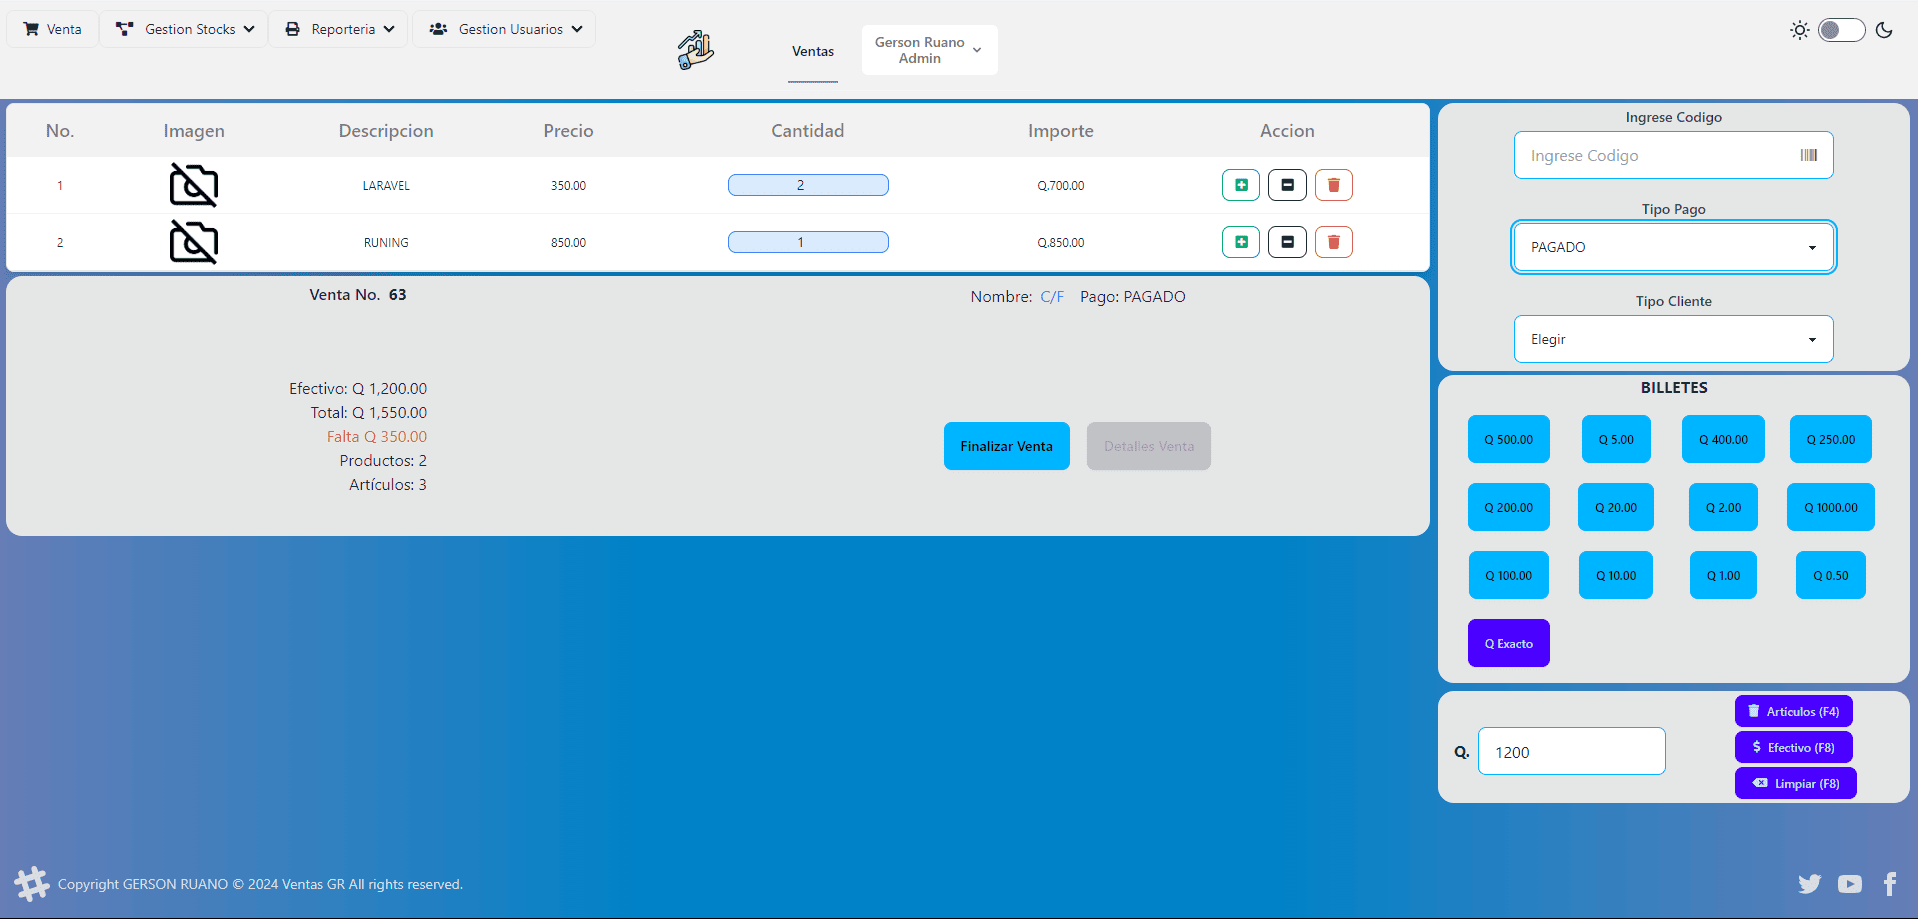
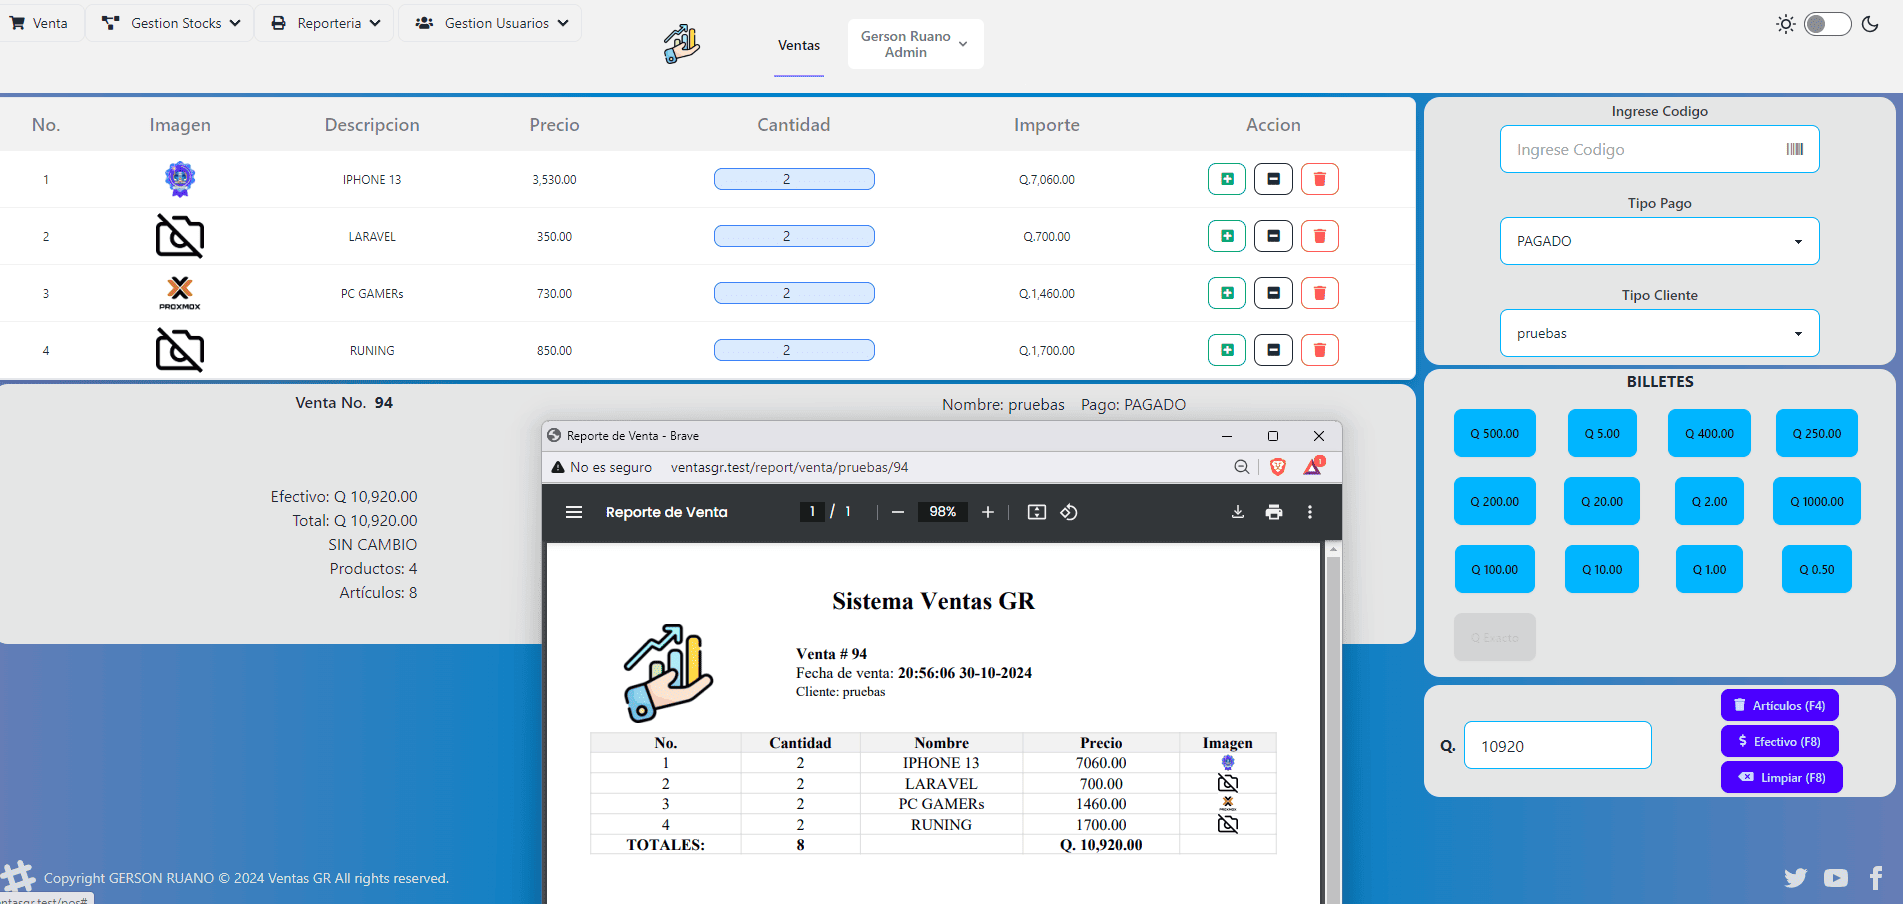
fix problema de impresion al iniciar por inicio de variable, fix problema de reporte pdf en filtro de todos los tipos de pago, actualizacion de imagenes y archivo Readme.md

diff --git a/app/Livewire/Reports.php b/app/Livewire/Reports.php
@@ -39,6 +39,7 @@ class Reports extends Component
         $this->sumDetails = 0;
         $this->countDetails = 0;
         $this->reportType = 0;
+        $this->selectTipoEstado = 0;
         $this->userId = 0;
         $this->saleId = 0;
         $this->valoresReporte = $this->tipoReporte();
@@ -104,7 +105,7 @@ class Reports extends Component
             $query->where('user_id', $this->userId);
         }
 
-        if ($this->selectTipoEstado) {
+        if ($this->selectTipoEstado != 0) { // Si no es igual a 0, aplica el filtro
             $query->where('sales.status', $this->selectTipoEstado);
         }
 

diff --git a/app/Http/Controllers/ExportController.php b/app/Http/Controllers/ExportController.php
@@ -68,7 +68,11 @@ class ExportController extends Controller
             $query->where('user_id', $userId);
         }
 
-        if ($selectTipoEstado !== null) {
+        /*if ($selectTipoEstado !== null) {
+            $query->where('sales.status', $selectTipoEstado);
+        }*/
+
+        if ($selectTipoEstado != 0) { // Si no es igual a 0, aplica el filtro
             $query->where('sales.status', $selectTipoEstado);
         }
 

diff --git a/resources/views/pdf/reportebox.blade.php b/resources/views/pdf/reportebox.blade.php
@@ -4,7 +4,7 @@
 <head>
     <meta charset="UTF-8">
     <meta name="viewport" content="width=device-width, initial-scale=1.0">
-    <title>Cierre de Venta</title>
+    <title>Cierre de Caja</title>
     <link rel="stylesheet" href="{{ asset('css/custom_pdf.css') }}">
     <link rel="stylesheet" href="{{ asset('css/custom_page.css') }}">
     <style>

diff --git a/app/Livewire/Cashout.php b/app/Livewire/Cashout.php
@@ -95,7 +95,7 @@ class Cashout extends Component
     public function obtenerNombreVendedor($seller)
     {
         $vendedor = User::find($seller);
-        return $vendedor ? $vendedor->name : 'C/F';
+        return $vendedor ? $vendedor->name : 'Consumidor Final';
     }
 
     public function updatedToDate()

diff --git a/README.md b/README.md
@@ -1,17 +1,19 @@
 
 # VENTASGR 
 
-Sistema de gestion de productos, ventas, usuarios, reportes.
+Sistema de ventas, gestion de productos, usuarios, reportes.
 
 <!--img src="https://user-images.githubusercontent.com/104822099/208479821-d38db6ea-2844-4b13-8af0-58ace8636889.png" width="500" heigh="288px" alt="Mi portfolio personal"-->
 ## Modulo de Ventas
 ![ventas](public/img/ventass.png)
 ## Modulo de Reportes
 ![ventas](public/img/reportes.png)
+## Modulo de Cierre de Caja
+![ventas](public/img/cierre.png)
 
 ## Descripción
 
-Aplicación que permite gestionar productos y ventas de los mismos, administracion de roles y permisos de usuarios para ingreso al sistema asi como compras de productos existentes, manejo de stock, generacion de dashboard.
+Aplicación que permite gestionar productos y ventas de los mismos, administracion de roles y permisos de usuarios para ingreso al sistema asi como compras de productos existentes, visualizaciòn de dashboard.
 
 ### Instalación
 
@@ -41,7 +43,7 @@ $ npm run build
 **Tailwind** para el diseño de los estilos del proyecto
 **Daisy Ui** para utilizar componentes prediseñados de tailwind
 **livewire** para crear componentes personalizados: para la reactividad de la pagina
-**Breeze** para la atentificación de los usuarios
+**Breeze** para la autenticación de los usuarios.
 **Fontawesome** para iconos del sistema.
 **SweetAlert2** para notificaciones.
 
@@ -60,60 +62,6 @@ $ npm run build
 <a href="https://packagist.org/packages/laravel/framework"><img src="https://img.shields.io/packagist/v/laravel/framework" alt="Latest Stable Version"></a>
 <a href="https://packagist.org/packages/laravel/framework"><img src="https://img.shields.io/packagist/l/laravel/framework" alt="License"></a>
 </p>
-
-## About Laravel
-
-Laravel is a web application framework with expressive, elegant syntax. We believe development must be an enjoyable and creative experience to be truly fulfilling. Laravel takes the pain out of development by easing common tasks used in many web projects, such as:
-
-- [Simple, fast routing engine](https://laravel.com/docs/routing).
-- [Powerful dependency injection container](https://laravel.com/docs/container).
-- Multiple back-ends for [session](https://laravel.com/docs/session) and [cache](https://laravel.com/docs/cache) storage.
-- Expressive, intuitive [database ORM](https://laravel.com/docs/eloquent).
-- Database agnostic [schema migrations](https://laravel.com/docs/migrations).
-- [Robust background job processing](https://laravel.com/docs/queues).
-- [Real-time event broadcasting](https://laravel.com/docs/broadcasting).
-
-Laravel is accessible, powerful, and provides tools required for large, robust applications.
-
-## Learning Laravel
-
-Laravel has the most extensive and thorough [documentation](https://laravel.com/docs) and video tutorial library of all modern web application frameworks, making it a breeze to get started with the framework.
-
-You may also try the [Laravel Bootcamp](https://bootcamp.laravel.com), where you will be guided through building a modern Laravel application from scratch.
-
-If you don't feel like reading, [Laracasts](https://laracasts.com) can help. Laracasts contains thousands of video tutorials on a range of topics including Laravel, modern PHP, unit testing, and JavaScript. Boost your skills by digging into our comprehensive video library.
-
-## Laravel Sponsors
-
-We would like to extend our thanks to the following sponsors for funding Laravel development. If you are interested in becoming a sponsor, please visit the [Laravel Partners program](https://partners.laravel.com).
-
-### Premium Partners
-
-- **[Vehikl](https://vehikl.com/)**
-- **[Tighten Co.](https://tighten.co)**
-- **[WebReinvent](https://webreinvent.com/)**
-- **[Kirschbaum Development Group](https://kirschbaumdevelopment.com)**
-- **[64 Robots](https://64robots.com)**
-- **[Curotec](https://www.curotec.com/services/technologies/laravel/)**
-- **[Cyber-Duck](https://cyber-duck.co.uk)**
-- **[DevSquad](https://devsquad.com/hire-laravel-developers)**
-- **[Jump24](https://jump24.co.uk)**
-- **[Redberry](https://redberry.international/laravel/)**
-- **[Active Logic](https://activelogic.com)**
-- **[byte5](https://byte5.de)**
-- **[OP.GG](https://op.gg)**
-
-## Contributing
-
-Thank you for considering contributing to the Laravel framework! The contribution guide can be found in the [Laravel documentation](https://laravel.com/docs/contributions).
-
-## Code of Conduct
-
-In order to ensure that the Laravel community is welcoming to all, please review and abide by the [Code of Conduct](https://laravel.com/docs/contributions#code-of-conduct).
-
-## Security Vulnerabilities
-
-If you discover a security vulnerability within Laravel, please send an e-mail to Taylor Otwell via [taylor@laravel.com](mailto:taylor@laravel.com). All security vulnerabilities will be promptly addressed.
 
 ## License
 
